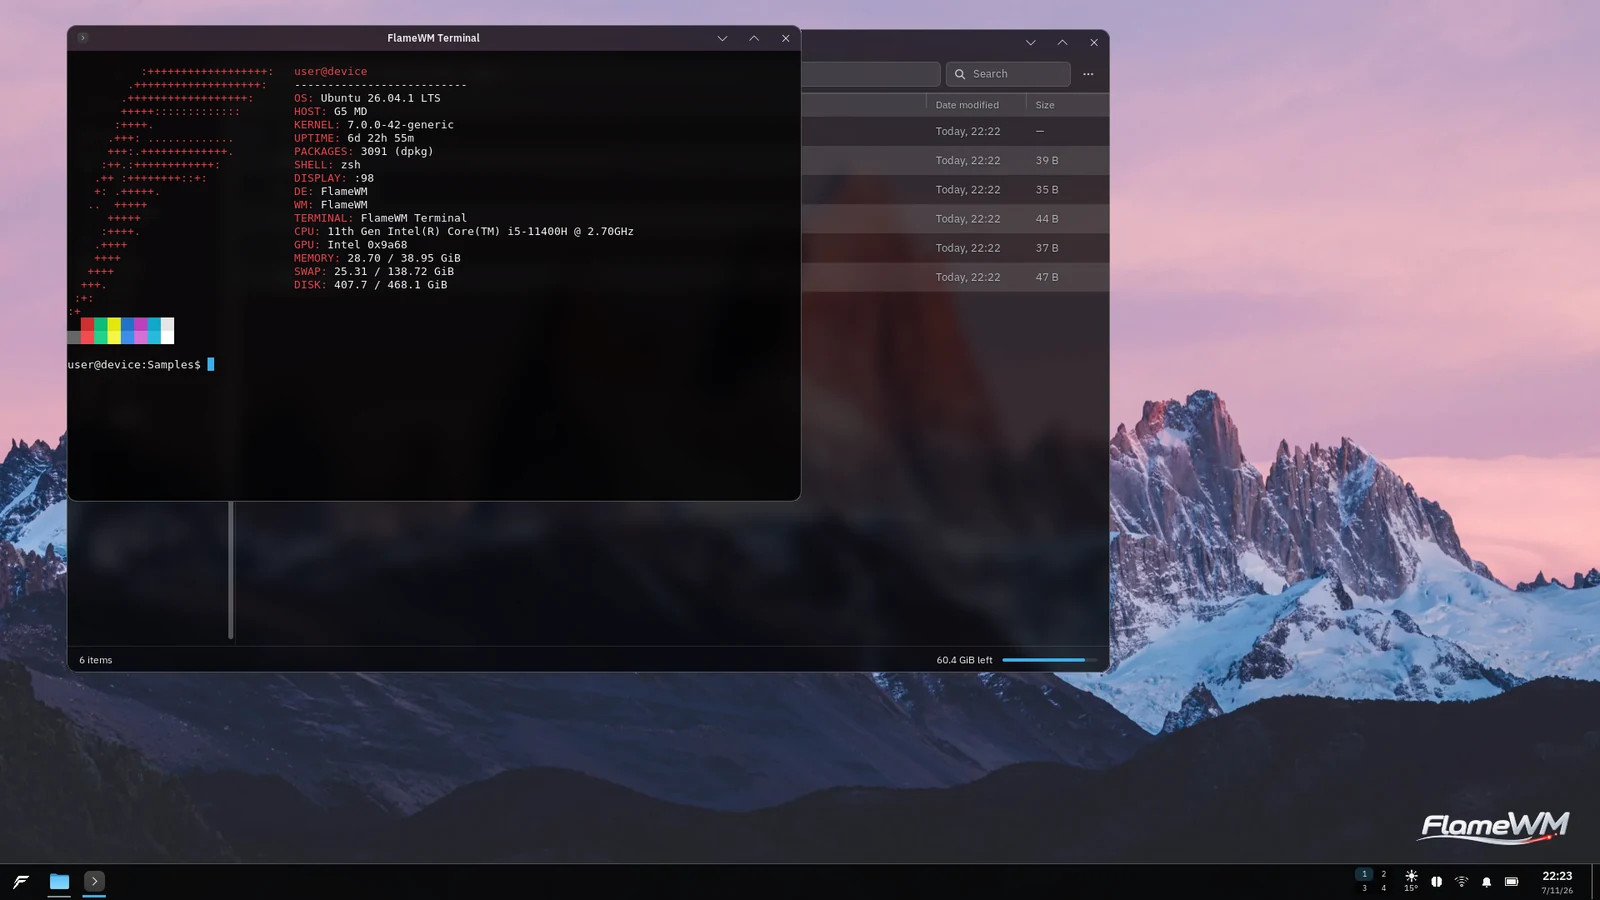
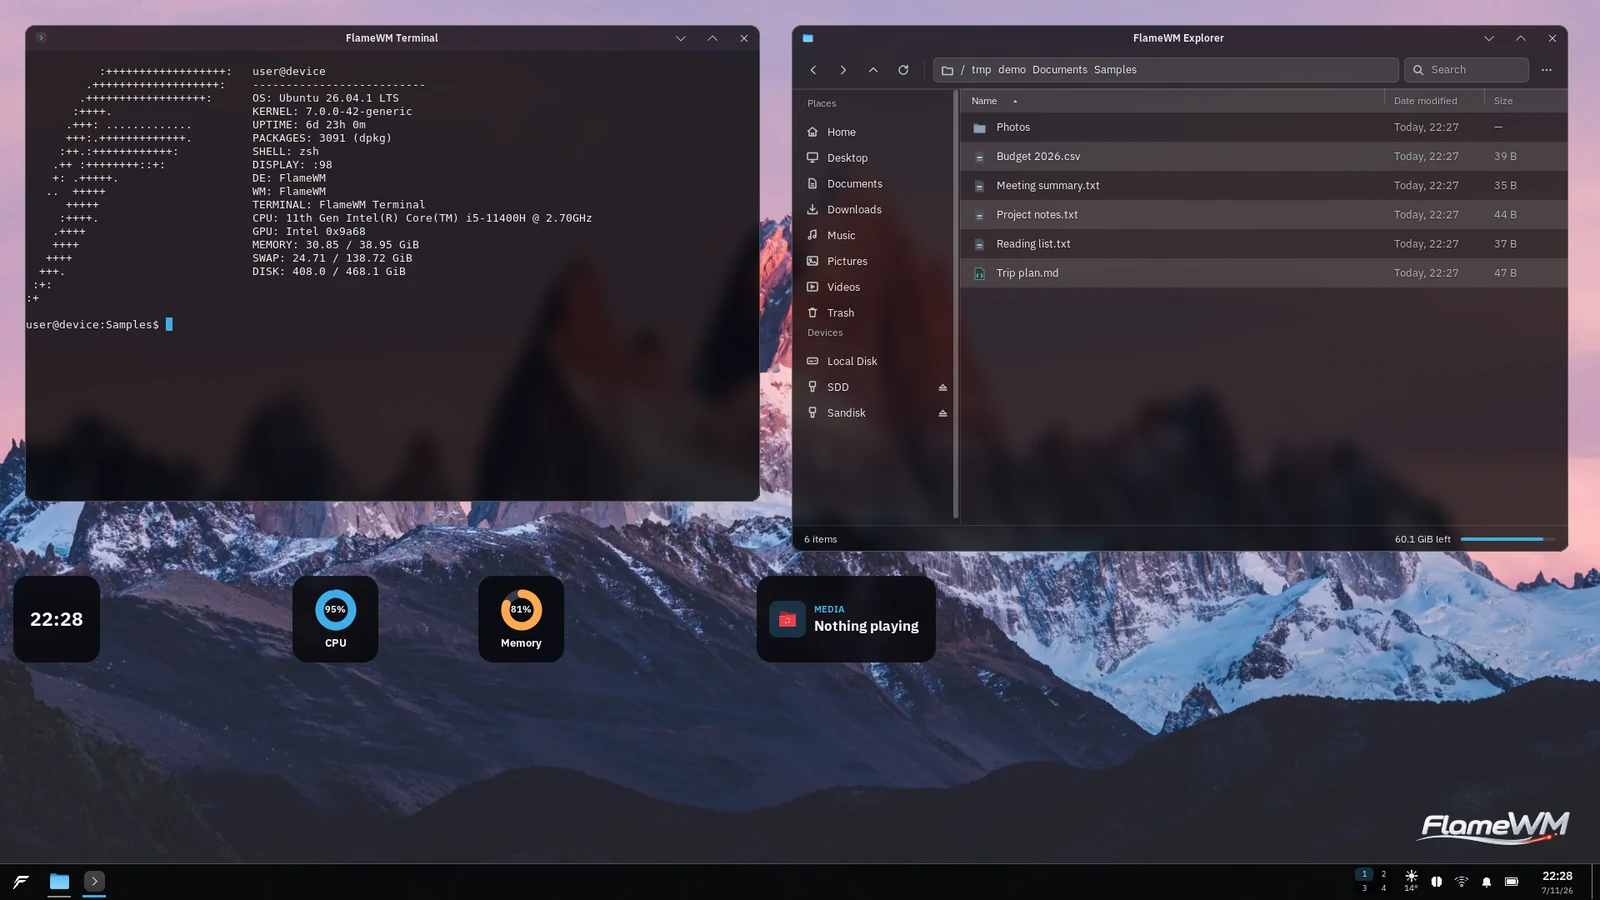
docs(readme): retake previews with split overview, widgets and Dock
Overview shows Terminal and Explorer side by side with desktop widgets and
no Dock. Desktop and Start menu share a layout with the Dock enabled and
the Terminal lower-left so the Explorer file list stays visible. Demo
folder path and the flamefetch HOST line are no longer shown.

diff --git a/README.md b/README.md
@@ -6,7 +6,7 @@
  </picture>
 </a>
 <img width="1080" height="1440" alt="image" src="https://github.com/user-attachments/assets/44501e7d-7012-47ee-9830-50ccb9caa126" />
-<img width="1344" height="756" alt="FlameWM desktop with a Terminal running flamefetch, an Explorer window, taskbar widgets and the clock" src="assets/screenshots/overview.webp" />
+<img width="1344" height="756" alt="FlameWM desktop with a Terminal running flamefetch, an Explorer window, desktop widgets (clock, CPU, memory, media) and the taskbar" src="assets/screenshots/overview.webp" />
 
 # FlameWM
 
